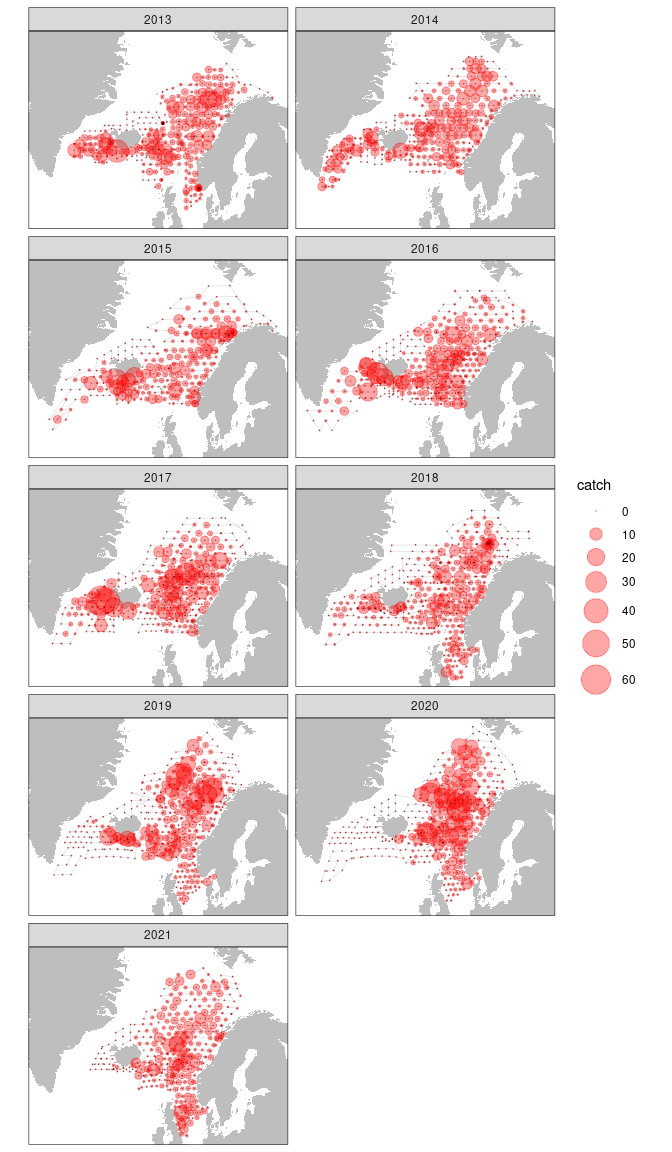
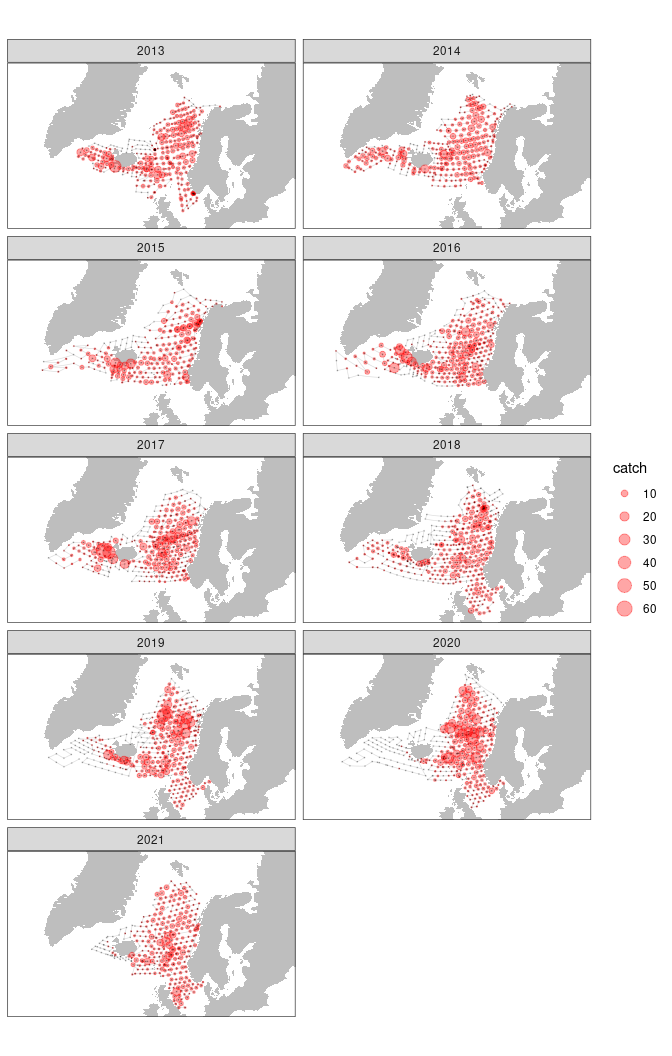
mostly documentations

diff --git a/README.md b/README.md
@@ -34,7 +34,8 @@ remotes::install_github("tidyverse/dbplyr@v1.4.4", force = TRUE)
 
 **Side effects**: Installing an earlier version of {dbplyr} means that
 one can not load the {tidyverse} package only its child packages (dplyr,
-ggplot2, tidyr, tibble, ….).
+ggplot2, tidyr, tibble, ….). Reinstalling the latest version of {dbplyr}
+is done by `install.packages("dbplyr")`.
 
 ## Connection
 
@@ -44,38 +45,28 @@ the PGNAPES database. The arguments of the function are *username*,
 *password* and *use_odbc*. The two first arguments are self-expanatory.
 The arguement *use_odbc* (default TRUE) provides a control if connection
 is made via {odbc} or {ROracle}. The latter is generally faster but the
-{ROracle}-package setup is more difficult. Your IT-department may be of
-help here, details on intallments are
-[here](http://cran.hafro.is/web/packages/ROracle/INSTALL). Information
-on the installation of the needed Oracle Instant Client are
-[here](https://www.oracle.com/database/technologies/instant-client.html).
-load(“leyndo.RData”)
-
-In the document provided here the {odbc}-connection is use
+{ROracle}-package setup is more difficult (see furhter notes below)
 
 **At the start of an R-sesssion load some packages**:
 
 ``` r
 library(dplyr)
-#> 
-#> Attaching package: 'dplyr'
-#> The following objects are masked from 'package:stats':
-#> 
-#>     filter, lag
-#> The following objects are masked from 'package:base':
-#> 
-#>     intersect, setdiff, setequal, union
 library(tidyr)
 library(ggplot2)
-library(pgnapes)
 library(maps)
+library(pgnapes)
 ```
 
-**Connect to database**:
+**Connect to the database**:
+
+The first thing to do is to establish a connection to the
+PGNAPES-database by:
 
 ``` r
-con <- pgn_connect("your_user_name", "your_password")
+con <- pgn_connect(username = "your_user_name", password = "your_password")
 ```
+
+You should now get something like the following:
 
 ``` r
 con
@@ -83,7 +74,10 @@ con
 #>   Oracle Version: 11.02.0020
 ```
 
-## Available convenient wrappers
+## The PGNAPES tables
+
+The functions below are a convenient wrapper to access all the tables in
+pgnapes:
 
 ``` r
 pgn_acoustic(con)
@@ -103,7 +97,9 @@ pgn_survey(con)
 pgn_vessels(con)
 ```
 
-## Example: Get and “standardize” mackerel catch\*\*
+## Examples
+
+### Get and “standardize” mackerel catch
 
 ``` r
 d <-
@@ -118,7 +114,31 @@ d <-
   collect(n = Inf) %>% 
   mutate(catch = catch / 1000 / (towtime / 60),
          catch = replace_na(catch, 0))
-#> Joining, by = c("country", "vessel", "cruise", "station", "sttype", "year")
+glimpse(d)
+#> Rows: 2,959
+#> Columns: 22
+#> $ country    <chr> "FO", "FO", "FO", "FO", "FO", "FO", "FO", "FO", "FO", "FO",…
+#> $ vessel     <chr> "XPXP", "XPXP", "XPXP", "XPXP", "XPXP", "XPXP", "XPXP", "XP…
+#> $ cruise     <chr> "1352", "1352", "1352", "1352", "1352", "1352", "1352", "13…
+#> $ station    <chr> "13520001", "13520003", "13520005", "13520007", "13520009",…
+#> $ sttype     <chr> "TRAWL", "TRAWL", "TRAWL", "TRAWL", "TRAWL", "TRAWL", "TRAW…
+#> $ year       <dbl> 2013, 2013, 2013, 2013, 2013, 2013, 2013, 2013, 2013, 2013,…
+#> $ log        <chr> NA, NA, NA, NA, NA, NA, NA, NA, NA, NA, NA, NA, NA, NA, NA,…
+#> $ month      <dbl> 7, 7, 7, 7, 7, 7, 7, 7, 7, 7, 7, 7, 7, 7, 7, 7, 7, 7, 7, 7,…
+#> $ day        <dbl> 3, 3, 3, 4, 4, 4, 5, 5, 5, 6, 6, 6, 6, 7, 7, 8, 8, 8, 8, 9,…
+#> $ hour       <dbl> 6, 14, 22, 5, 14, 22, 4, 12, 17, 0, 8, 15, 20, 7, 17, 1, 8,…
+#> $ min        <dbl> 58, 4, 22, 55, 42, 2, 49, 46, 39, 53, 14, 0, 59, 16, 46, 14…
+#> $ lat        <dbl> 60.96722, 60.58263, 60.58520, 60.58342, 59.46975, 59.44432,…
+#> $ lon        <dbl> -6.85520, -8.78505, -10.70880, -12.91440, -12.95920, -11.14…
+#> $ bottdepth  <chr> "186", "243", "276", "700", "1200", "1650", "1400", "570", …
+#> $ windir     <chr> "45", "0", "270", "180", "225", "225", "225", "225", "225",…
+#> $ winspeed   <chr> "8", "0", "10", "10", "15", "20", "8", "12", "12", "18", "1…
+#> $ species    <chr> "MAC", "MAC", "MAC", "MAC", "MAC", "MAC", "MAC", "MAC", "MA…
+#> $ catch      <dbl> 0.050300, 0.900000, 2.668100, 0.228040, 0.000000, 0.000000,…
+#> $ towtime    <dbl> 30, 30, 30, 30, 30, 30, 30, 30, 30, 30, 30, 30, 30, 30, 30,…
+#> $ wirelength <chr> "350", "350", "360", "350", "350", "350", "350", "350", "12…
+#> $ towspeed   <chr> "4.9", "5", "5.1", "5.3", "4.5", "4.7", "4.9", "4.8", "4.3"…
+#> $ trawldepth <chr> "0", "0", "0", "0", "0", "0", "0", "0", "100", "0", "0", "0…
 ```
 
 **Map catch**:
@@ -132,13 +152,23 @@ d %>%
   theme_bw() +
   geom_polygon(data = m, aes(long, lat, group = group), fill = "grey") +
   geom_path(aes(group = cruise), colour = "grey", lwd = 0.25, alpha = 0.5) +
-  geom_point(aes(size = catch), colour = "red", alpha = 0.35) +
-  scale_size_area(max_size = 10) +
+  geom_point(data = d %>% filter(catch > 0),
+             aes(size = catch), colour = "red", alpha = 0.35) +
+  scale_size_area(max_size = 5) +
   geom_point(size = 0.01, alpha = 0.2) +
   facet_wrap(~ year, ncol = 2) +
-  coord_quickmap(xlim = xlim, ylim = ylim) +
+  #coord_quickmap(xlim = xlim, ylim = ylim) +
+  coord_map(projection = "azequalarea",
+            xlim = xlim, ylim = ylim) +
   scale_x_continuous(NULL, NULL) +
   scale_y_continuous(NULL, NULL)
 ```
 
 <img src="man/figures/README-maccatch-1.png" width="100%" />
+
+## Intalling ROracle
+
+Your IT-department may be of help here, details on intallments are
+[here](http://cran.hafro.is/web/packages/ROracle/INSTALL). Information
+on the installation of the needed Oracle Instant Client are
+[here](https://www.oracle.com/database/technologies/instant-client.html).
